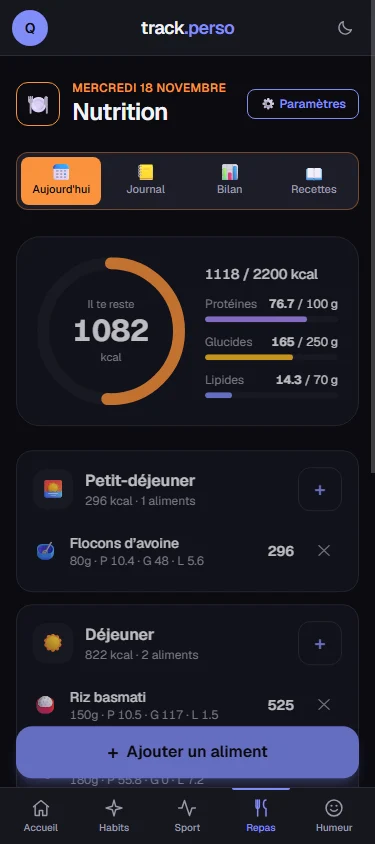
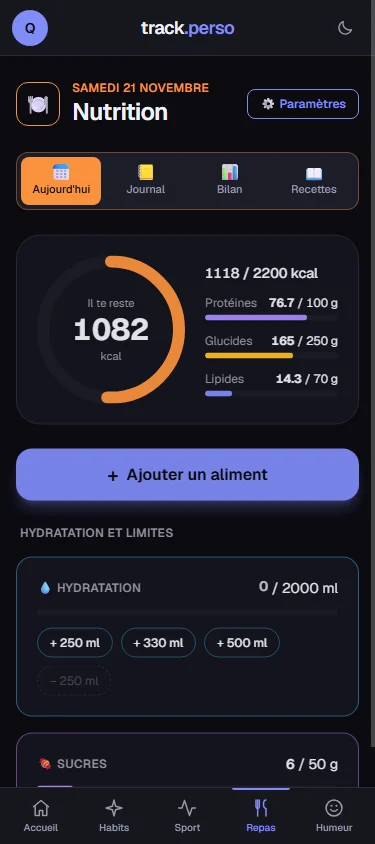
feat: Today tab of Meals without the meal list
The day's list is already in the Journal tab; Today keeps the calories
ring, the "Ajouter un aliment" action and hydration and limits.

diff --git a/src/components/nutrition/nutrition-today.tsx b/src/components/nutrition/nutrition-today.tsx
@@ -1,25 +1,15 @@
 "use client";
 
-import { useEffect, useRef, useState, useTransition } from "react";
+import { useEffect, useRef, useState } from "react";
 import Link from "next/link";
-import { deleteMeal } from "@/lib/actions/nutrition";
 import { MealForm, type MealMoment } from "@/components/meal-form";
-import { ConfirmDeleteButton } from "@/components/ui/confirm-delete-button";
-import { useActionToast } from "@/components/toast/use-action-toast";
 import { useT } from "@/components/language-provider";
-import type { Food, MealEntry } from "@/types/database";
+import type { Food } from "@/types/database";
 
 type Totals = { calories: number; protein: number; carbs: number; fat: number };
 type Goals = { calories: number | null; protein: number | null; carbs: number | null; fat: number | null };
 
-const MOMENTS: { value: MealMoment; key: string; icon: string }[] = [
-  { value: "petit-dejeuner", key: "petitDejeuner", icon: "🌅" },
-  { value: "dejeuner", key: "dejeuner", icon: "☀" },
-  { value: "diner", key: "diner", icon: "🌙" },
-  { value: "collation", key: "collation", icon: "🍎" },
-];
-
-/** The moment that fits the time of day, so "Ajouter" lands in the right card. */
+/** The moment that fits the time of day, preselected in the add form. */
 function momentNow(): MealMoment {
   const hour = new Date().getHours();
   if (hour < 11) return "petit-dejeuner";
@@ -98,11 +88,9 @@ export function CalorieHero({ totals, goals, goalsHref }: { totals: Totals; goal
   );
 }
 
-/** Today's meals in one card per moment, each with its own add button, and the add sheet. */
-export function TodayMeals({ meals, foods, quickFoods }: { meals: MealEntry[]; foods: Food[]; quickFoods: Food[] }) {
+/** The one action of the Today tab: add a food, in a sheet preset to the current meal. The day's list is in the Journal tab. */
+export function AddFoodButton({ foods, quickFoods }: { foods: Food[]; quickFoods: Food[] }) {
   const t = useT();
-  const run = useActionToast();
-  const [pending, startTransition] = useTransition();
   const [sheet, setSheet] = useState<MealMoment | null>(null);
   const dialogRef = useRef<HTMLDialogElement>(null);
 
@@ -110,61 +98,8 @@ export function TodayMeals({ meals, foods, quickFoods }: { meals: MealEntry[]; f
     if (sheet) dialogRef.current?.showModal();
   }, [sheet]);
 
-  const label = (moment: (typeof MOMENTS)[number]) => t(`nutrition.mealTypes.${moment.key}`);
-
   return (
     <>
-      <div className="space-y-3" data-today-meals>
-        {MOMENTS.map((moment) => {
-          const entries = meals.filter((meal) => meal.meal_type === moment.value);
-          const calories = Math.round(entries.reduce((sum, meal) => sum + meal.calories, 0));
-          return (
-            <section key={moment.value} aria-labelledby={`moment-${moment.value}`} className="rounded-2xl border border-border bg-surface" data-moment={moment.value}>
-              <div className="flex items-center gap-3 p-4 pb-2">
-                <span aria-hidden className="grid h-10 w-10 shrink-0 place-items-center rounded-xl bg-surface-muted text-lg">{moment.icon}</span>
-                <div className="min-w-0 flex-1">
-                  <h3 id={`moment-${moment.value}`} className="font-semibold">{label(moment)}</h3>
-                  <p className="text-xs text-foreground-muted">{entries.length ? `${calories} kcal · ${(entries.length === 1 ? t("nutrition.v2.entriesOne") : t("nutrition.v2.entriesCount", { count: entries.length }))}` : t("nutrition.v2.momentEmpty")}</p>
-                </div>
-                <button
-                  type="button"
-                  onClick={() => setSheet(moment.value)}
-                  aria-label={t("nutrition.v2.addTo", { meal: label(moment).toLowerCase() })}
-                  className="grid h-11 w-11 shrink-0 place-items-center rounded-xl border border-border text-xl font-semibold text-accent transition hover:bg-surface-muted"
-                >
-                  +
-                </button>
-              </div>
-              {entries.length > 0 && (
-                <ul className="divide-y divide-border px-4 pb-2">
-                  {entries.map((meal) => (
-                    <li key={meal.id} className="flex items-center gap-3 py-2.5" data-meal-entry>
-                      <span aria-hidden className="text-lg">{meal.icon}</span>
-                      <div className="min-w-0 flex-1">
-                        <p className="truncate text-sm font-medium">{meal.food_name}</p>
-                        <p className="text-xs tabular-nums text-foreground-muted">
-                          {meal.quantity_grams}{meal.unit} · {t("nutrition.common.proteinAbbrev")} {meal.protein} · {t("nutrition.common.carbsAbbrev")} {meal.carbs} · {t("nutrition.common.fatAbbrev")} {meal.fat}
-                        </p>
-                      </div>
-                      <span className="shrink-0 text-sm font-semibold tabular-nums">{Math.round(meal.calories)}</span>
-                      <ConfirmDeleteButton
-                        disabled={pending}
-                        onConfirm={() => startTransition(async () => void (await run(() => deleteMeal(meal.id), { success: t("nutrition.mealList.deleteSuccess", { name: meal.food_name }), failure: t("nutrition.common.deleteFailure") })))}
-                        title={t("nutrition.mealList.deleteTitle")}
-                        message={t("nutrition.mealList.deleteMessage", { name: meal.food_name })}
-                        className="grid h-11 w-9 shrink-0 place-items-center text-foreground-muted hover:text-danger"
-                      >
-                        ✕
-                      </ConfirmDeleteButton>
-                    </li>
-                  ))}
-                </ul>
-              )}
-            </section>
-          );
-        })}
-      </div>
-
       <div className="sticky bottom-[calc(3.5rem+env(safe-area-inset-bottom)+0.75rem)] z-10 md:bottom-4">
         <button
           type="button"

diff --git a/src/app/(app)/nutrition/page.tsx b/src/app/(app)/nutrition/page.tsx
@@ -9,7 +9,7 @@ import { MealTemplatesPanel } from "@/components/meal-templates";
 import { WaterTracker } from "@/components/water-tracker";
 import { WeightTracker } from "@/components/weight-tracker";
 import { WeeklyBarChart } from "@/components/charts/weekly-bar-chart";
-import { CalorieHero, TodayMeals } from "@/components/nutrition/nutrition-today";
+import { AddFoodButton, CalorieHero } from "@/components/nutrition/nutrition-today";
 import { NutritionReview } from "@/components/nutrition/nutrition-review";
 import { NutritionTabs } from "@/components/nutrition-tabs";
 import { Callout } from "@/components/ui/callout";
@@ -234,7 +234,7 @@ export default async function NutritionPage({
               goalsHref={`/nutrition?date=${today}#goals`}
             />
 
-            <TodayMeals meals={meals} foods={foods} quickFoods={quickFoods} />
+            <AddFoodButton foods={foods} quickFoods={quickFoods} />
 
             <section aria-labelledby="nutrition-extras" className="space-y-4">
               <h2 id="nutrition-extras" className="px-1 text-xs font-semibold uppercase tracking-wide text-foreground-muted">{t("nutrition.v2.extrasTitle")}</h2>
